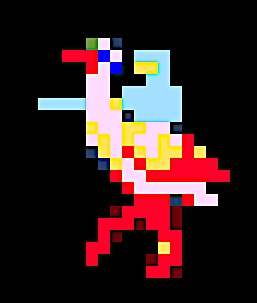
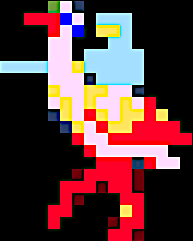
add a background and an overlay

diff --git a/js/scripts.js b/js/scripts.js
@@ -5,13 +5,16 @@ var jouster1Left = new Image();
 var jouster1Right = new Image();
 var jouster2Left = new Image();
 var jouster2Right = new Image();
-
+var joustLogo = new Image();
+var background = new Image();
 //Grabbing the source for the images.
 jouster1Left.src = "img/Jouster1Left.png";
 jouster1Right.src = "img/Jouster1Right.png";
 jouster2Left.src = "img/Jouster2Left.png";
 jouster2Right.src = "img/Jouster2Right.png";
-
+joustLogo.src = "img/Logo.gif";
+background.src = "img/background.png";
+var blink = true;
 //Set the jouster as a variable
 var jouster = jouster1Left;
 var jouster2 = jouster2Right;
@@ -42,7 +45,9 @@ $().ready(function() {
   //Getting the canvas to work on and allow us to write
   canvas = $("#canvas").get(0);
   context = canvas.getContext("2d");
-
+  //update();
+  drawMain();
+});
   // This functions allows for the update function to run on repeat
   function update(){
     requestAnimationFrame(update);
@@ -66,23 +71,59 @@ $().ready(function() {
   }
 
   //We call the update function
-  update();
 
   // These are the event listeners that allow for the user to experience no lag time on movement
   document.addEventListener('keydown', function(e){
     keys[e.keyCode] = true;
+    if(e.keyCode == 40){
+      e.preventDefault();
+    }
+    //Enter Key to kick off update loop
+    if(e.keyCode == 13){
+      update();
+      clearInterval(blinkInterval);
+      keys[13] = false;
+
+    }
   });
   document.addEventListener('keyup', function(e){
     keys[e.keyCode] = false;
   });
 
   // This is the function to draw the game
+  function drawMain() {
+    context.fillStyle = "black";
+    context.fillRect(0,0, canvas.width, canvas.height);
+    context.drawImage(joustLogo, canvas.width/2-joustLogo.width/2, canvas.height/2-joustLogo.height);
+    blinkInterval = setInterval(blinkText, 500);
+  }
+
+
+  function blinkText(){
+
+    if(!blink){
+      context.font ="30px Fantasy";
+      context.fillStyle = "white";
+      context.fillText("Press Enter", canvas.width/2-80, canvas.height/2+60);
+      console.log("fill text");
+      blink = true;
+    }
+    else if(blink){
+
+      console.log("fill black")
+      context.fillStyle = "black";
+      context.fillRect(canvas.width/2-100, canvas.height/2+30, 200, 35);
+      blink = false;
+    }
+  }
+
   function drawGame(){
 
     context.clearRect(0,0, canvas.width, canvas.height);
     //draw background
     context.fillStyle = "black";
     context.fillRect(0,0,canvas.width, canvas.height);
+    context.drawImage(background,0, 0, canvas.width, canvas.height);
     //draw players
     context.drawImage(jouster, player1PosX+=player1VelX, player1PosY+=player1VelY, 50, 50);
     context.drawImage(jouster2, player2PosX+=player2VelX, player2PosY+=player2VelY, 50, 50);
@@ -135,31 +176,34 @@ $().ready(function() {
   }
 
   // This is the physics functionality
+
+
+  var floor = 425;
+  var ceiling = 0;
+
   function physics(){
 
-    if(player1PosY <= 450){
+    if(player1PosY <= floor){
       player1VelY+=.098; //gravity
     }
     else{
-      player1PosY = 450;
+      player1PosY = floor;
       player1VelY = 0
     }
-    if(player2PosY <= 450){
+    if(player2PosY <= floor){
       player2VelY+=.098; //gravity
     }
     else{
-      player2PosY = 450;
+      player2PosY = floor;
       player2VelY = 0
     }
-    if(player1PosY <= 0){
+    if(player1PosY <= ceiling){
       player1PosY = 0
     }
-    if(player2PosY <= 0){
+    if(player2PosY <= ceiling){
       player2PosY = 0
     }
     player1VelX*=friction; //friction
     player2VelX*=friction; //friction
 
   }
-
-});

diff --git a/css/styles.css b/css/styles.css
@@ -1,7 +1,26 @@
 .classContainer {
-  text-align: center;
+  justify-content: center;
+  align-items: center;
 }
 canvas {
+  text-align: center;
   display: block;
-  margin:auto;
+  position: absolute;
+  margin-left: 380px;
+  margin-top: 225px;
 }
+#backgroundMain{
+  width: 1500px;
+  position: absolute;
+  z-index: 1;
+}
+/*#overLay {
+  width: 900px;
+  position: absolute;
+  z-index: 1;
+  margin-left: 305px;
+  margin-top: 200px;
+}*/
+/*body {
+  background-image: url("../img/joustCabinet.jpg");
+}*/

diff --git a/index.html b/index.html
@@ -8,8 +8,11 @@
     <title>Joust</title>
   </head>
   <body>
-    <div class="canvasContainer">
-      <canvas id="canvas" width="900" height="500"></canvas>
+    <div class="background">
+      <div class="canvasContainer">
+        <canvas id="canvas" width="750" height="625"></canvas>
+      </div>
+      <img src="img/joustCabinet2.png" alt="" id="backgroundMain">
     </div>
   </body>
 </html>
